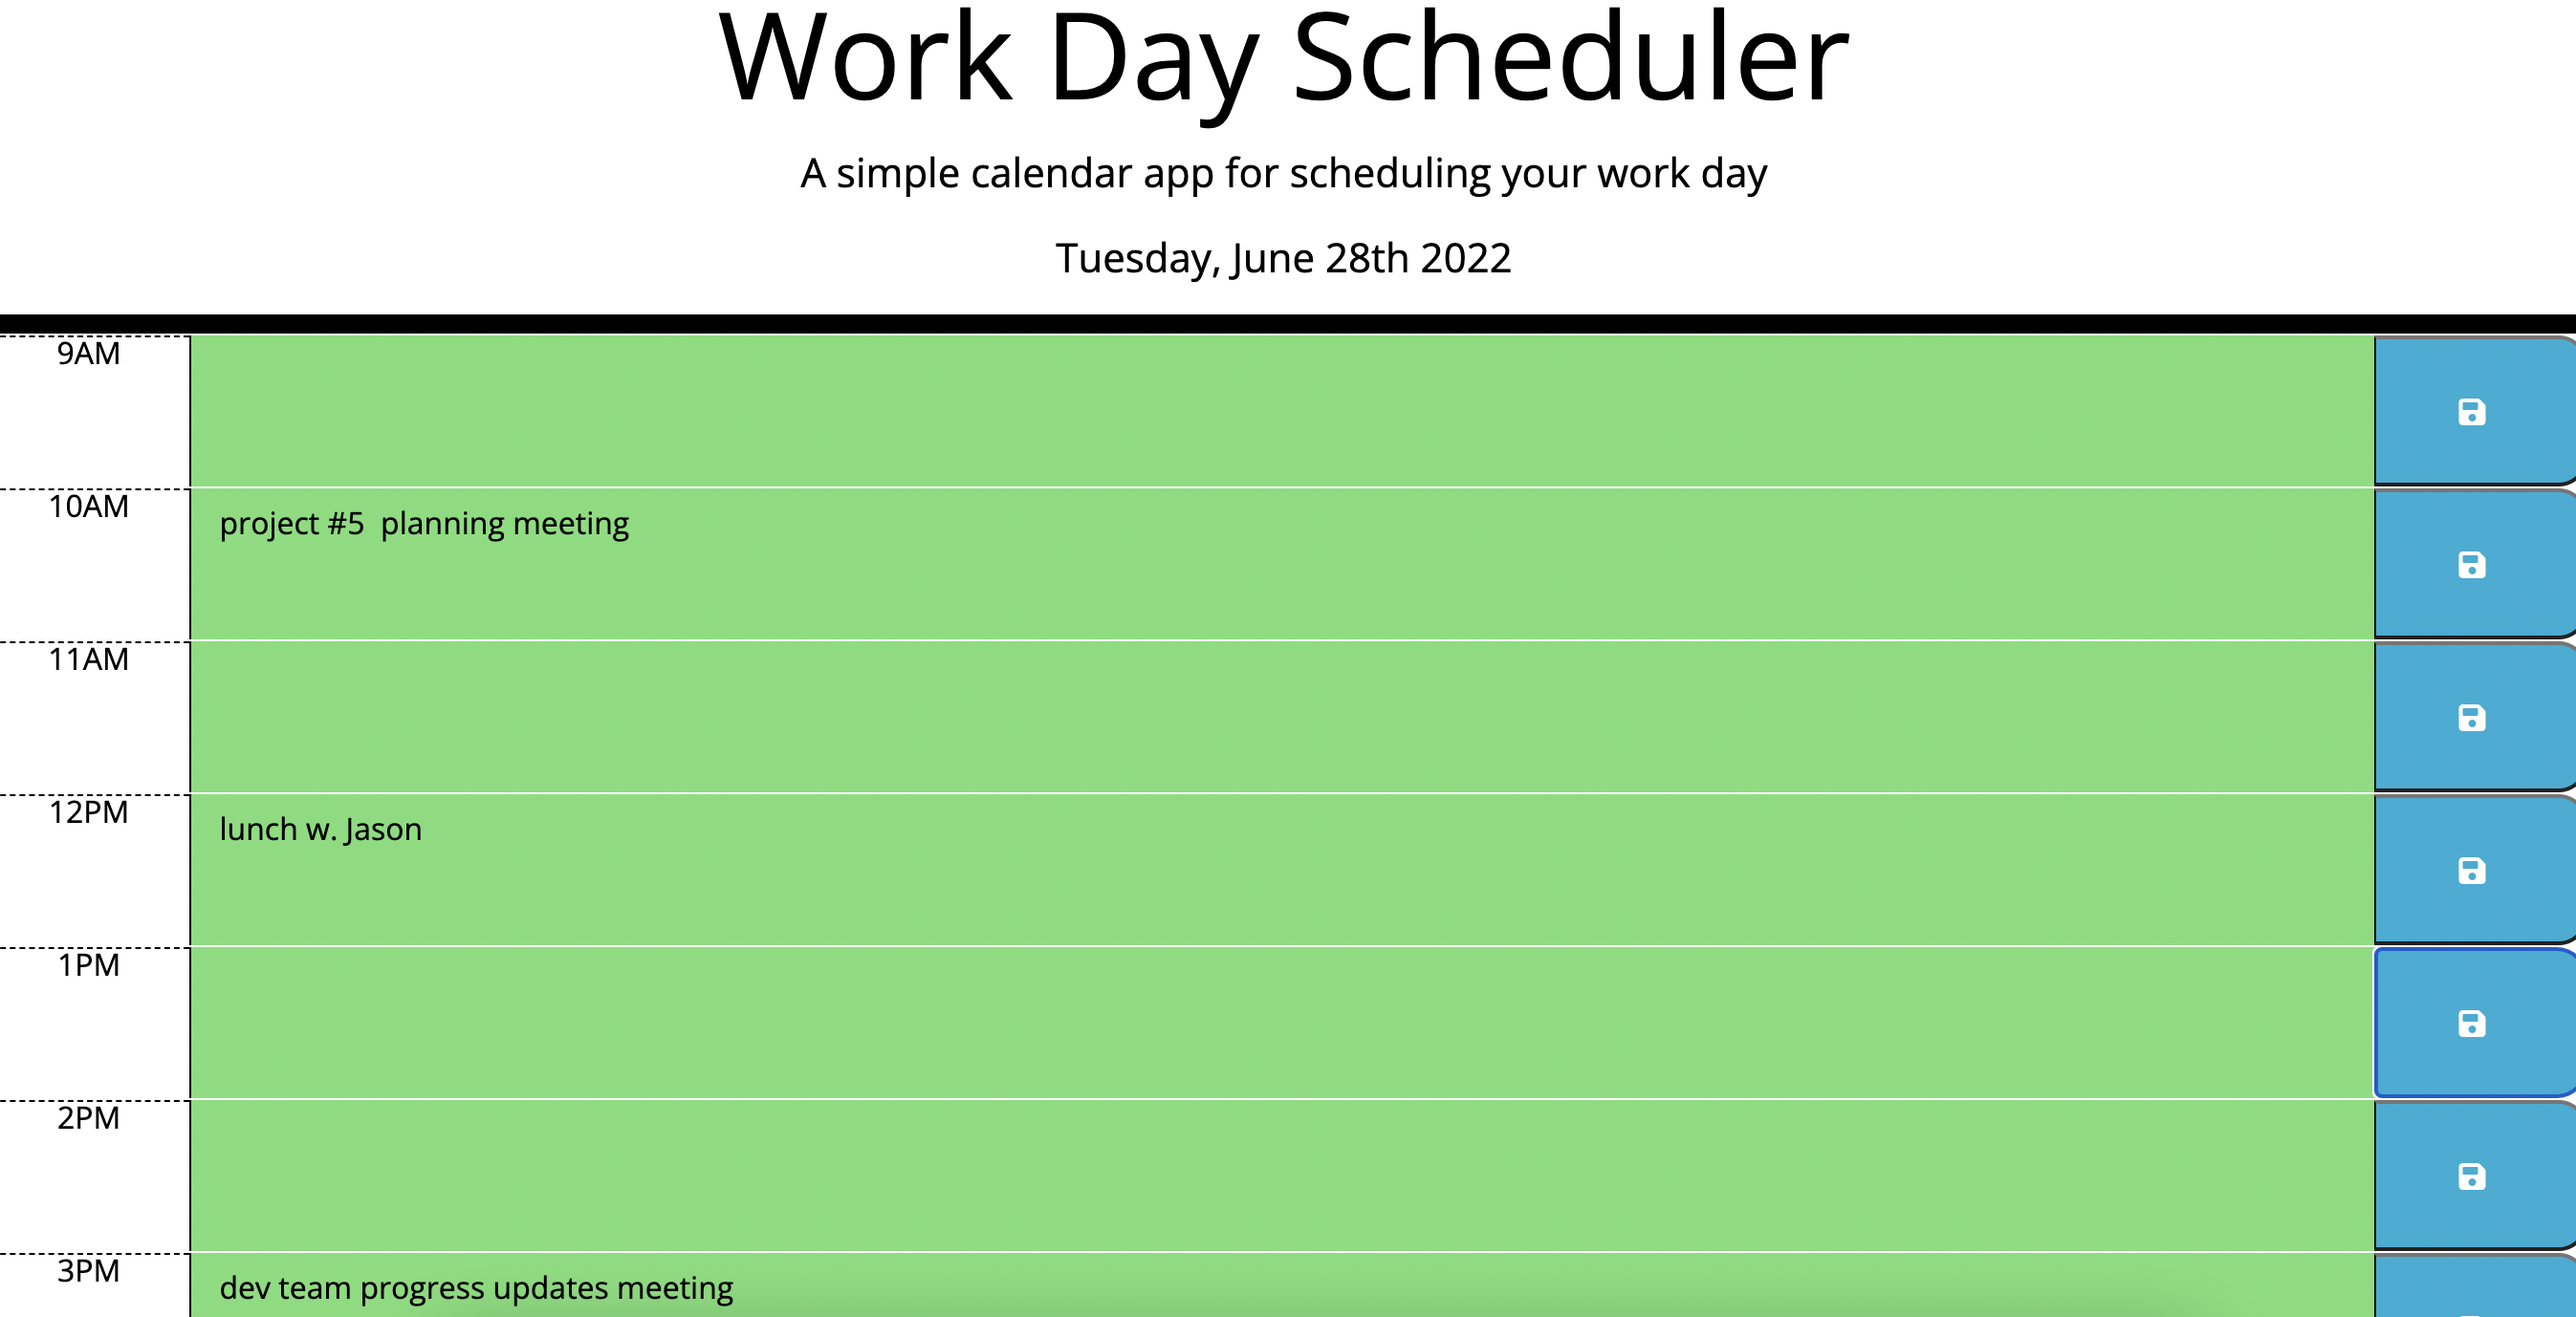
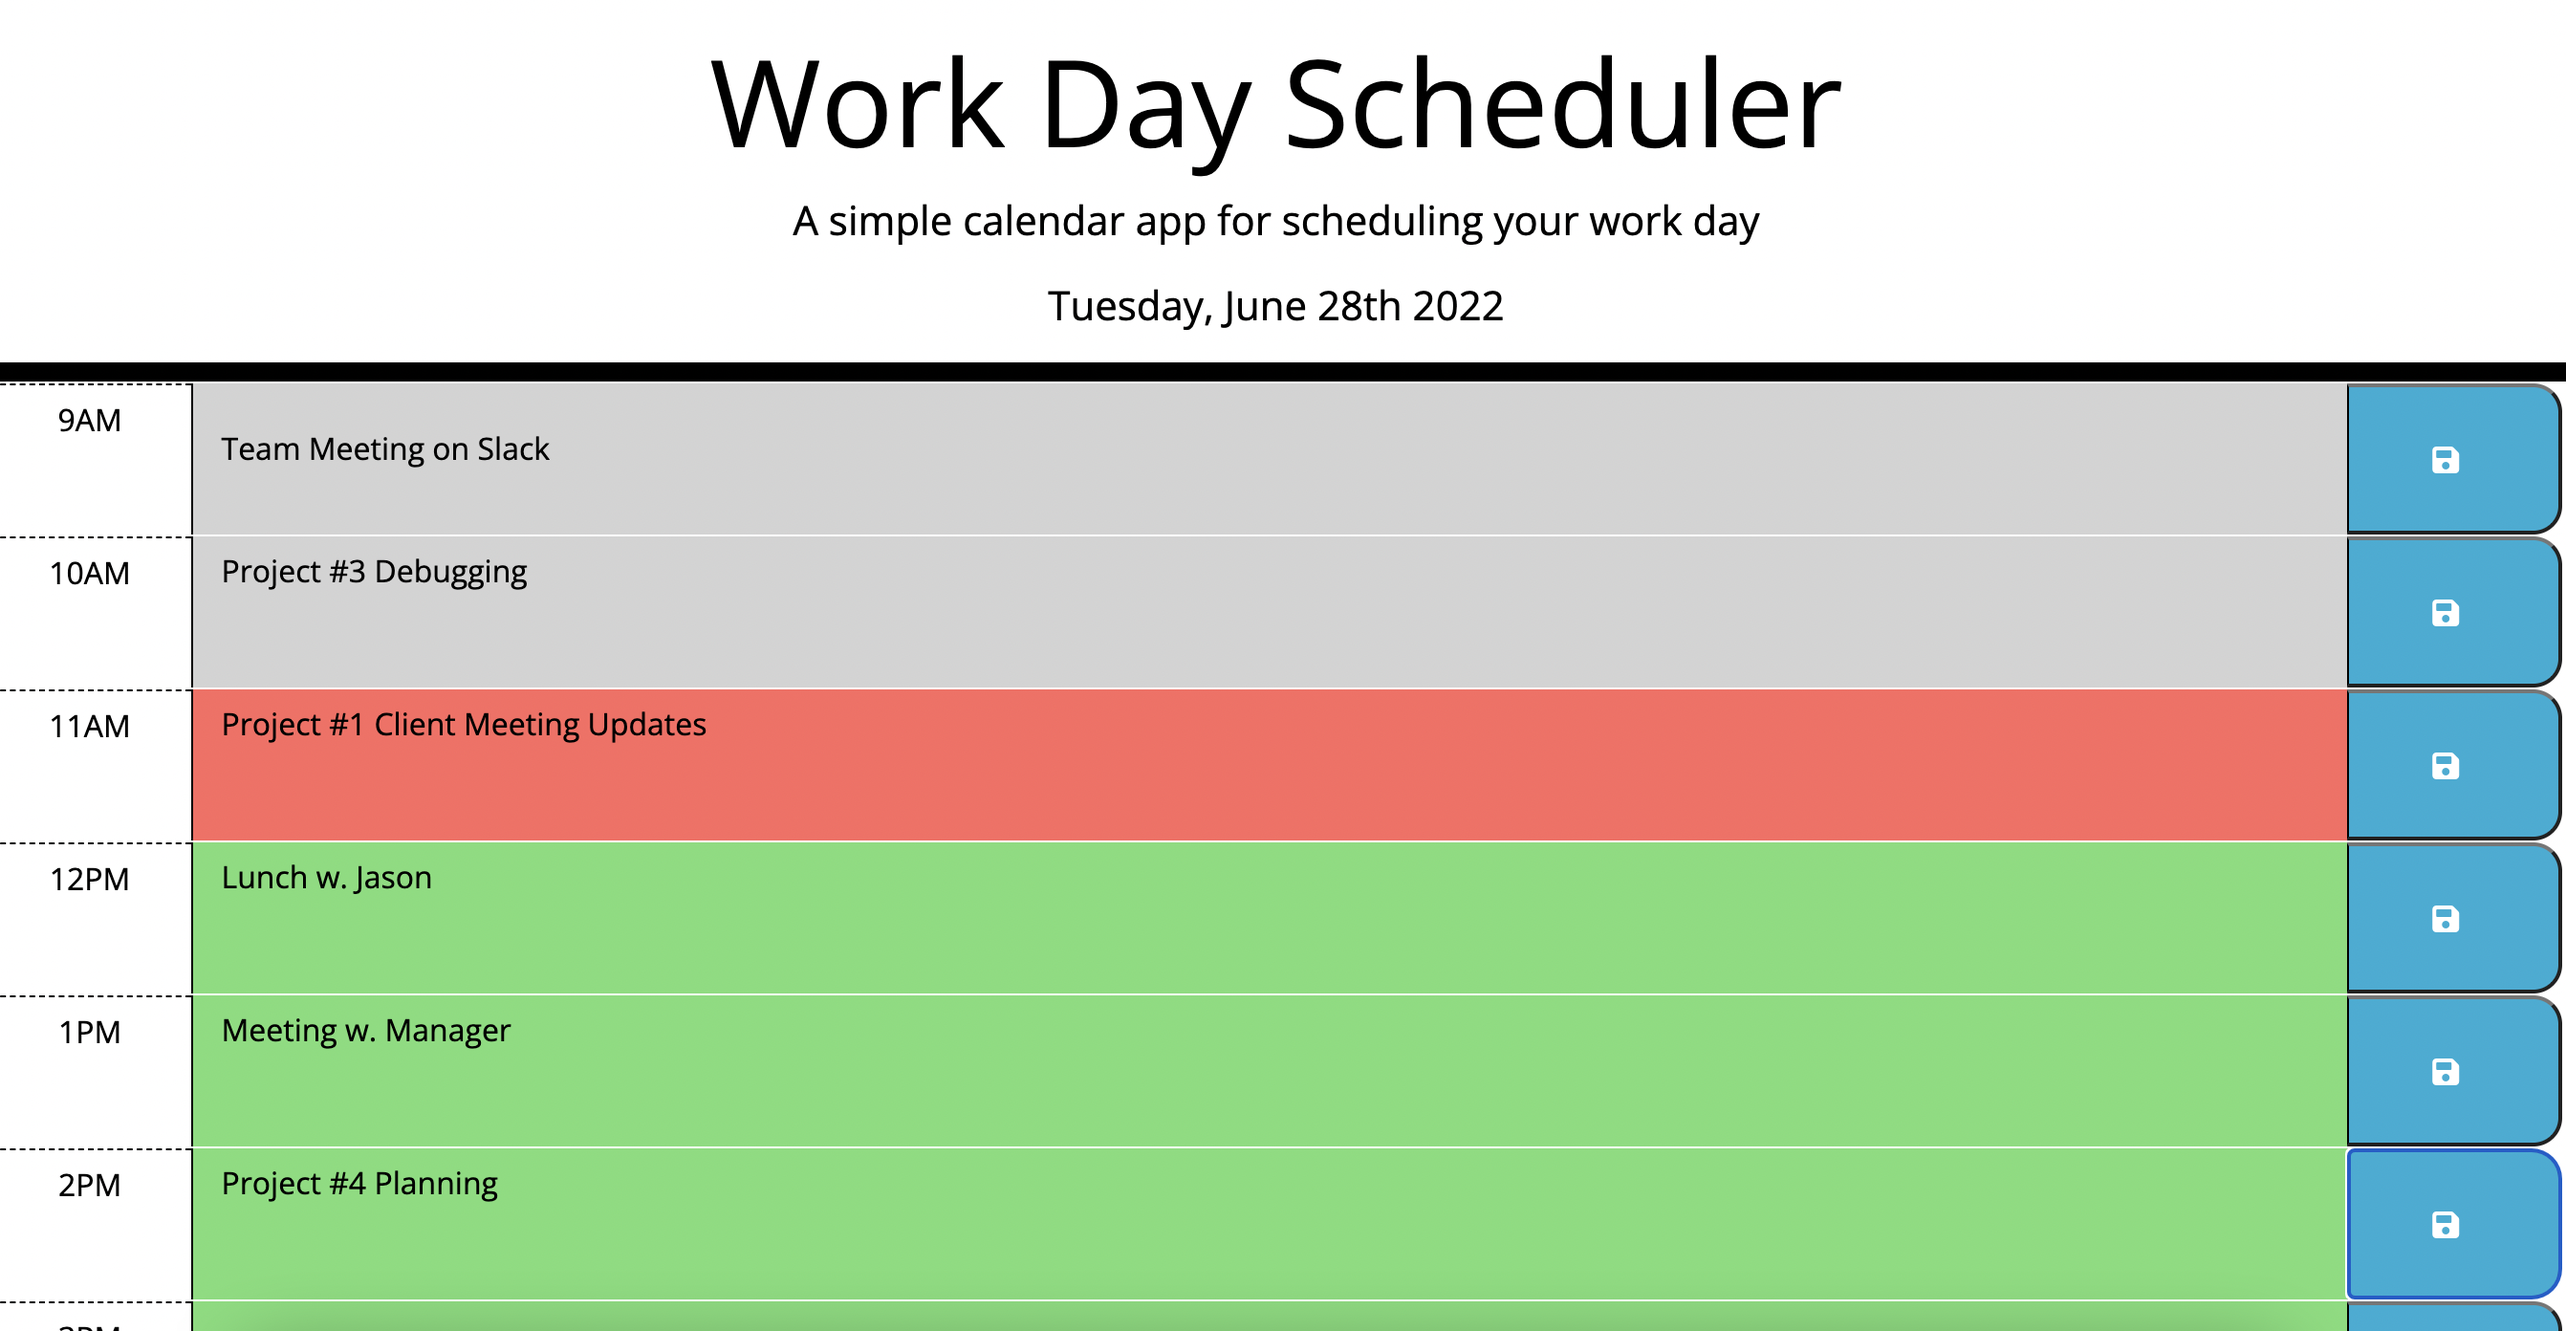
updated readme app pictures to show all color code

diff --git a/index.html b/index.html
@@ -98,6 +98,6 @@
     <script src="https://code.jquery.com/jquery-3.4.1.min.js"></script>
     <script src="https://cdnjs.cloudflare.com/ajax/libs/moment.js/2.24.0/moment.min.js"></script>
     <script src="script.js"></script>
-
+    
   </body>
 </html>

diff --git a/README.md b/README.md
@@ -47,5 +47,5 @@ These are images of the  working application.
 
 #### Credits
 Original Start Code from Michigan State University Coding Boot Camp 2022.
-https://api.jquery.com
-https://momentjs.com
+[https://api.jquery.com]///
+[https://momentjs.com]
